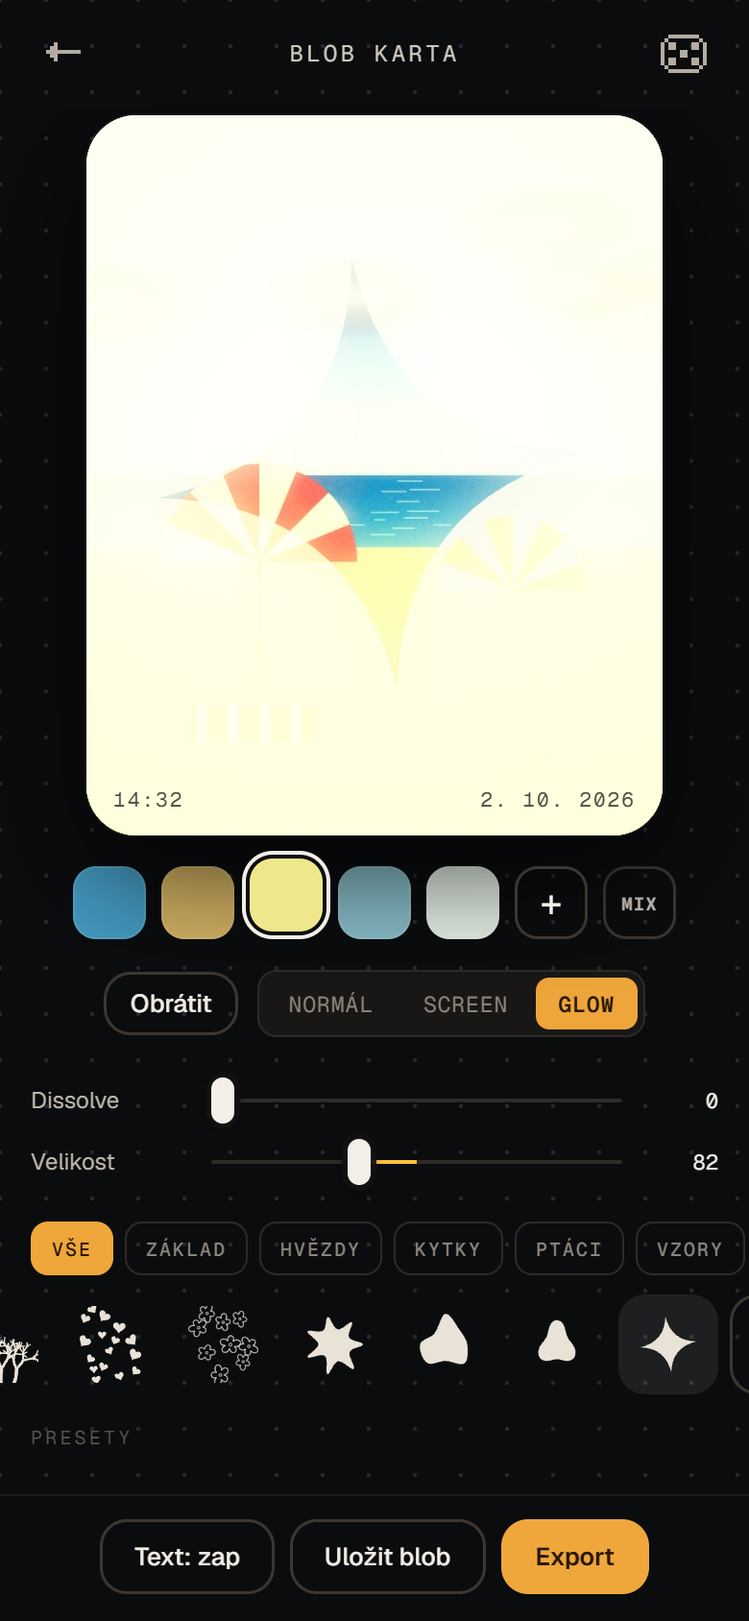
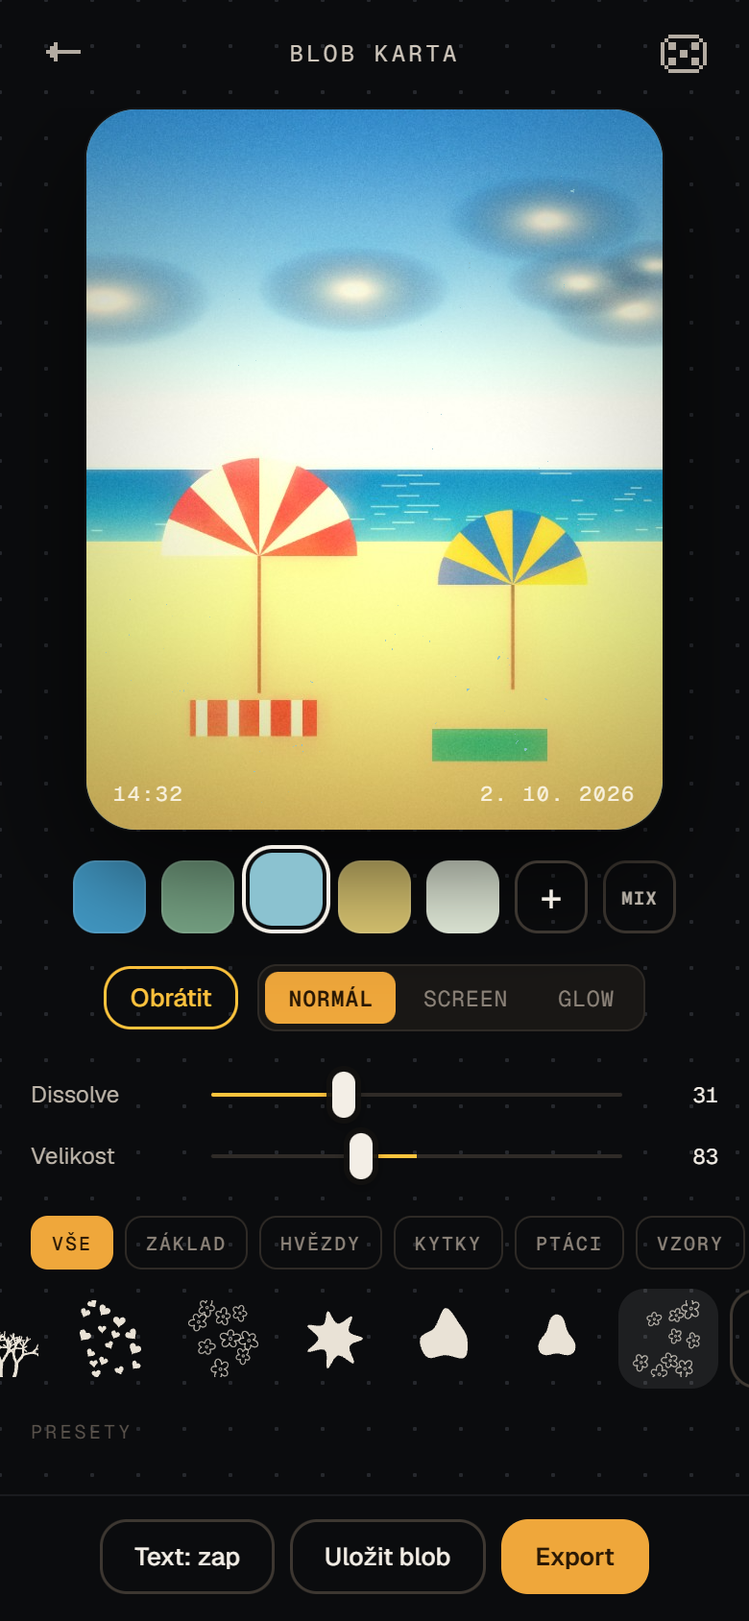
Náhled 0.15: nastavení filmu, reset sekce, IR přepracované (+IRC, IRR, IRG), jemnější zrno, zoom na celé obrazovce

diff --git a/docs/preview/index.html b/docs/preview/index.html
@@ -411,7 +411,7 @@ a{color:var(--amber)}
 
 /* pravítko (posuvník ve stylu Prequel) */
 .ruler{position:relative;height:84px;padding-top:2px}
-.ruler .rv{text-align:center;font-family:var(--f-dot);font-weight:900;font-size:23px;height:26px;line-height:26px;color:var(--fg);font-variant-numeric:tabular-nums;white-space:nowrap}
+.ruler .rv{cursor:pointer;-webkit-user-select:none;user-select:none;touch-action:manipulation;text-align:center;font-family:var(--f-dot);font-weight:900;font-size:23px;height:26px;line-height:26px;color:var(--fg);font-variant-numeric:tabular-nums;white-space:nowrap}
 .ruler .rl{text-align:center;font-family:var(--f-mono);font-size:9.5px;letter-spacing:.16em;color:var(--dim);text-transform:uppercase;height:13px;white-space:nowrap}
 .ruler .tr{position:relative;height:40px;margin-top:4px;overflow:hidden;touch-action:none;cursor:ew-resize;
   -webkit-mask:linear-gradient(90deg,transparent,#000 16%,#000 84%,transparent);mask:linear-gradient(90deg,transparent,#000 16%,#000 84%,transparent)}
@@ -740,7 +740,7 @@ body.pcapp .pcwrap{position:fixed;inset:0;width:auto;height:auto;transform:none!
 <body>
 <div class="shell" id="shell">
   <aside class="nav">
-    <div class="brand">QAMERA<small>Náhled 0.14</small></div>
+    <div class="brand">QAMERA<small>Náhled 0.15</small></div>
     <div>
       <div class="navlabel">Zobrazení</div>
       <div class="seg" id="viewSeg"><button class="on" data-v="m">MOBIL 390×844</button><button data-v="pc">PC 1440×900</button></div>
@@ -868,7 +868,7 @@ body.pcapp .pcwrap{position:fixed;inset:0;width:auto;height:auto;transform:none!
             <button class="ib" data-back aria-label="Zpět" data-ic="back"></button>
             <div style="display:flex"><button class="ib" id="undoBtn" data-ic="undo" aria-label="Zpět o krok"></button><button class="ib" id="redoBtn" data-ic="redo" aria-label="Znovu"></button></div>
             <button class="advsw" id="advSw">ADVANCED <span class="sw" id="advKnob"></span></button>
-            <div style="display:flex"><button class="ib" id="resetBtn" data-ic="reset" aria-label="Vrátit úpravy na výchozí film"></button><button class="ib" id="expBtn" data-ic="share" aria-label="Exportovat"></button></div>
+            <div style="display:flex"><button class="ib" id="resetBtn" data-ic="reset" aria-label="Vrátit tuhle sekci na původní"></button><button class="ib" id="expBtn" data-ic="share" aria-label="Exportovat"></button></div>
           </div>
           <div class="ephoto" id="ePhoto">
             <div class="frame" id="eFrame"><div class="ecanvas" id="eWrap"><canvas id="eGlow"></canvas><canvas id="edCanvas"></canvas><canvas id="eDate"></canvas><button class="ib fsbtn" id="fsBtn" data-ic="expand" aria-label="Celá obrazovka"></button></div></div>
@@ -939,7 +939,7 @@ body.pcapp .pcwrap{position:fixed;inset:0;width:auto;height:auto;transform:none!
         <section class="scr pt" id="s-about" hidden>
           <div class="top"><button class="ib" data-back aria-label="Zpět" data-ic="back"></button><span class="title">O appce</span><span style="width:40px"></span></div>
           <div class="about">
-            <div class="hero"><div class="lens"><svg class="eyes" id="aboutEyes" viewBox="14 24 92 72"></svg></div><h2>QAMERA</h2><div class="ver">NÁHLED 0.14</div></div>
+            <div class="hero"><div class="lens"><svg class="eyes" id="aboutEyes" viewBox="14 24 92 72"></svg></div><h2>QAMERA</h2><div class="ver">NÁHLED 0.15</div></div>
             <div class="card"><h3>Poděkování</h3>
               <p><a href="https://github.com/thetechgeekko/Spektrafilm-android" target="_blank" rel="noopener">Spektrafilm for Android</a> by <b>Akshay Sharma</b></p>
               <p>Film modeling powered by <a href="https://github.com/andreavolpato/spektrafilm" target="_blank" rel="noopener">spektrafilm</a> (Andrea Volpato)</p>
@@ -1157,11 +1157,15 @@ const FILMS = [
   { code: 'ORTHO', sub: 'ortho 25', chem: 'ortochromatický · ISO 25', desc: 'Starý ortochromatický film necitlivý na červenou: rty a červená ztmavnou, nebe vybledne. Vzhled fotek z počátku 20. století.', iso: 25, g: 'fine', bw: [.04, .58, .38], tone: [1.02, 1, .95], toe: .02, sh: [0, 0, 0], hi: [1, 1, 1], con: 1.18, sat: 0, fade: .02, hal: .05, c: ['#1a1712', '#e6dcc6', '#4a6b8a'] },
 ];
 FILMS.push({ code: 'IR', sub: 'infrared color', chem: 'barevný infračervený', desc: 'Infračervený vzhled jako z přestavěného foťáku: zeleň a tráva do růžovobílé, nebe tyrkysové, beton do pudrové.', iso: 400, g: 'classic', sh: [0, 0, 0], hi: [1, 1, 1], con: 1.02, sat: 1, fade: .02, hal: .3, gl: .28, ir: 1, c: ['#5fb7b4', '#f2a7bc', '#fbe9ee'] });
+FILMS.push({ code: 'IRC', sub: 'infra red', chem: 'barevný infračervený', desc: 'Sytá infra jako Aerochrome: listí a tráva rudé, nebe tyrkysové, oblaka bílá.', iso: 400, g: 'fine', sh: [0, 0, 0], hi: [1, 1, 1], con: 1.06, sat: 1.1, fade: 0, hal: .25, gl: .2, ir: 3, c: ['#d81b2a', '#4fb3b0', '#f4f1ee'] });
+FILMS.push({ code: 'IRR', sub: 'infra mono red', chem: 'ČB infračervený + barva', desc: 'Černobílá infra, kde svítí jen listí a tráva – rudě.', iso: 400, g: 'mono', sh: [0, 0, 0], hi: [1, 1, 1], con: 1.08, sat: 1, fade: 0, hal: .15, gl: .2, ir: 4, c: ['#141414', '#e8e8e8', '#d81b2a'] });
+FILMS.push({ code: 'IRG', sub: 'infra mono gold', chem: 'ČB infračervený + barva', desc: 'Černobílá infra, kde svítí jen listí a tráva – zlatě.', iso: 400, g: 'mono', sh: [0, 0, 0], hi: [1, 1, 1], con: 1.08, sat: 1, fade: 0, hal: .15, gl: .2, ir: 4, irh: 1, c: ['#141414', '#e8e8e8', '#f2b52e'] });
 FILMS.push({ code: 'IR400', sub: 'infrared 400', chem: 'ČB infračervený', desc: 'Černobílý infračervený film ve stylu Rollei Infrared 400 s červeným filtrem: zeleň září bíle (Woodův efekt), nebe a voda ztmavnou skoro do černa, ostrý kontrast.', iso: 400, g: 'mono', sh: [0, 0, 0], hi: [1, 1, 1], con: 1.1, sat: 0, fade: .0, hal: .12, gl: .2, ir: 2, c: ['#1a1a1a', '#e8e8e8', '#b3122e'] });
 /* soft glow (difúze, „Pro-Mist“) podle filmu */
 const GLOW = { P160: .2, P400: .18, P800: .22, E100: .08, G200: .18, UM400: .12, KC64: .05, EC100: .06, 'V3-50D': .15, 'V3-250D': .2, 'V3-500T': .3, C200: .12, '400H': .28, SX400: .1, PV100: .05, VEL: .05, IR: .25 };
 FILMS.forEach(f => f.gl = GLOW[f.code] ?? .12);
 const FILM = Object.fromEntries(FILMS.map(f => [f.code, f]));
+FILM.NONE = { code: 'NONE', sub: 'bez filmu', chem: '', desc: 'Původní fotka bez filmu.', iso: 400, g: 'classic', sh: [0, 0, 0], hi: [1, 1, 1], con: 1, sat: 1, fade: 0, hal: 1, gl: 0, chr: 0, c: ['#333', '#999', '#eee'] };
 let FAV = store.get('fav', []);
 let HIDDEN = store.get('hiddenFilms', []);
 const filmsOrdered = () => { const vis = FILMS.filter(f => !HIDDEN.includes(f.code) || f.code === S.film || (S.P && f.code === S.P.film)); return [...vis.filter(f => FAV.includes(f.code)), ...vis.filter(f => !FAV.includes(f.code))]; };
@@ -1171,8 +1175,8 @@ const GRAINS = {
   fine:    { l: 'Fine', d: 'jemný, diapozitivy a ISO 100', f: 1.45, sh: .9, ch: .22, cl: .15, a: .8, mot: 0 },
   classic: { l: 'Classic', d: 'klasický negativ ISO 400', f: 1.0, sh: 1.0, ch: .42, cl: .35, a: 1, mot: 0 },
   cine:    { l: 'Cine', d: 'měkký kino negativ', f: 1.2, sh: .72, ch: .3, cl: .2, a: .85, mot: 0 },
-  push:    { l: 'Push', d: 'hrubý, film tlačený na 3200', f: .66, sh: 1.45, ch: .55, cl: .55, a: 1.35, mot: 0 },
-  mono:    { l: 'Mono', d: 'stříbrný černobílý grain', f: .95, sh: 1.6, ch: 0, cl: .3, a: 1.1, mot: 0 },
+  push:    { l: 'Push', d: 'hrubý, film tlačený na 3200', f: 1.0, sh: 1.08, ch: .16, cl: .35, a: .95, mot: 0 },
+  mono:    { l: 'Mono', d: 'stříbrný černobílý grain', f: 1.75, sh: 1.15, ch: 0, cl: .2, a: .9, mot: 0 },
   expired: { l: 'Expired', d: 'prošlý film, skvrnitý', f: .8, sh: 1.1, ch: .85, cl: .9, a: 1.15, mot: 1 },
 };
 const gtypeOf = P => P.gtype || FILM[P.film]?.g || 'classic';
@@ -1348,7 +1352,7 @@ uniform sampler2D uTex, uCurve;
 uniform vec2 uCover, uOff, uRes; uniform float uZoom, uRot, uTime, uBypass, uStatic;
 uniform float uExp,uTemp,uTint,uCon,uSat,uStr,uHal,uBloom,uVig,uFade,uSharp;
 uniform float uGrain,uGFreq,uGSharp,uGChroma,uGClump,uGMot;
-uniform vec3 uSh,uHi; uniform float uFCon,uFSat,uFFade, uChar; uniform vec3 uBW, uBTone; uniform float uBToe;
+uniform vec3 uSh,uHi; uniform float uFCon,uFSat,uFFade, uChar, uFSoft, uIRHue; uniform vec3 uBW, uBTone; uniform float uBToe;
 uniform vec3 uHsl[8]; uniform vec3 uGSh,uGMid,uGHi;
 uniform vec3 uTrMs,uTrSs,uTrMr,uTrSr; uniform float uTr;
 uniform float uSeed, uGlow, uIR, uStyle, uCells, uLevels, uPalN, uZebra;
@@ -1369,6 +1373,11 @@ vec3 rgb2hsv(vec3 c){ vec4 K=vec4(0.,-1./3.,2./3.,-1.); vec4 p=mix(vec4(c.bg,K.w
 vec3 hsv2rgb(vec3 c){ vec3 p=abs(fract(c.xxx+vec3(1.,2./3.,1./3.))*6.-3.); return c.z*mix(vec3(1.),clamp(p-1.,0.,1.),c.y); }
 float luma(vec3 c){ return dot(c, vec3(.2126,.7152,.0722)); }
 vec2 qToUv(vec2 q){ float cs = cos(uRot), sn = sin(uRot); vec2 ts0 = vec2(textureSize(uTex,0)); float sar = ts0.x/ts0.y; vec2 v0 = q * uCover / uZoom; v0.x *= sar; v0 = mat2(cs,-sn,sn,cs) * v0; v0.x /= sar; return v0 + .5 + uOff; } // otočení bez zkosení
+/* zjednodušený vzhled pro rozmazané vrstvy (glow): stejné základní úpravy a film jako fotka, ať záře má barvy upravené fotky */
+vec3 lookOf(vec3 s){ vec3 l = pow(max(s, 0.), vec3(2.2)) * exp2(uExp) * vec3(1.+uTemp*.22, 1.+uTint*.1, 1.-uTemp*.22); vec3 c = pow(l/(1.+l*.06*uStr), vec3(1./2.2));
+  c = (c-.5)*(1.+uCon*.55)+.5; c = mix(vec3(luma(c)), c, 1.+uSat); vec3 f = c;
+  if (uLut > .5) f = texture(uLut3, clamp(f,0.,1.)*(32./33.) + .5/33.).rgb; if (uBW.r + uBW.g + uBW.b > .01) f = vec3(dot(clamp(f,0.,1.), uBW)) * uBTone;
+  return clamp(mix(c, f, uStr), 0., 1.); }
 void main(){
   float ar0 = uRes.x/uRes.y; vec2 cells = vec2(uCells*ar0, uCells);
   vec2 bUv = uStyle > .5 ? (floor(vUv*cells)+.5)/cells : vUv; // dither / pixel art: vzorkuje se po buňkách
@@ -1403,17 +1412,22 @@ void main(){
   c = (c-.5)*(1.+uCon*.55)+.5;
   float l = luma(c); c = mix(vec3(l), c, 1.+uSat);
   vec3 f = c; float fl = clamp(luma(f),0.,1.);
-  if (uIR > .5) { vec3 x = clamp(f,0.,1.); float lx = luma(x), sat0 = max(x.r, max(x.g, x.b)) - min(x.r, min(x.g, x.b));
-    float veg = smoothstep(0., .12, x.g - max(x.r, x.b) * .92) * smoothstep(.03, .14, sat0); // zeleň (v IR silně odráží)
-    float sky = smoothstep(.02, .16, x.b - max(x.r, x.g) * .95) * smoothstep(.2, .55, lx);  // modré nebe (v IR tmavé)
-    float irl = clamp(lx * .8 + veg * (.55 + lx * .5), 0., 1.);
-    if (uIR < 1.5) { // barevná IR (filtr 590–720 nm + prohození kanálů): zeleň do růžovobílé, nebe do tyrkysu, zbytek pudrově růžový
-      vec3 base = mix(vec3(irl), irl * vec3(1.1, .84, .89), .8);
-      vec3 fol = mix(vec3(.93, .48, .6), vec3(1., .82, .87), smoothstep(.35, .95, irl));
-      vec3 sk = mix(vec3(.08, .45, .47), vec3(.35, .72, .72), lx);
-      f = mix(base, fol, veg); f = mix(f, sk, sky);
-    } else { // ČB IR (Rollei Infrared 400 + R72): Woodův efekt, černé nebe, tvrdý kontrast
-      float g = clamp(lx * .55 + veg * .85 + lx * veg * .3 - sky * .55 - smoothstep(.02, .2, x.b - x.r) * (1. - sky) * .12, 0., 1.); f = vec3(smoothstep(.04, .96, g)); }
+  if (uIR > .5) { /* infra: odhad odrazivosti v IR (zeleň silně, nebe a voda slabě, oblaka a bílá vysoko) – plynulé váhy, žádné ostré masky
+       barevné varianty = CIR jako Aerochrome: zobrazená červená = IR, zelená = viditelná červená, modrá = viditelná zelená */
+    vec3 x = clamp(f, 0., 1.); float lx = luma(x), sat0 = max(x.r, max(x.g, x.b)) - min(x.r, min(x.g, x.b));
+    float veg = smoothstep(-.02, .14, x.g - .5 * (x.r + x.b)) * smoothstep(.0, .16, sat0) + smoothstep(.0, .2, .5 * (x.r + x.g) - x.b) * smoothstep(.06, .3, sat0) * .45 * (1. - smoothstep(.0, .2, x.r - x.g)); veg = clamp(veg, 0., 1.);
+    float blu = smoothstep(-.02, .2, x.b - .5 * (x.r + x.g)) * (1. - smoothstep(.72, .97, lx));          // modrá (nebe, voda) – v IR tmavá, oblaka ne
+    float ir = clamp(lx * .78 + veg * (.42 + .5 * lx) - blu * .32, 0., 1.);
+    /* barví se jen to, co infra opravdu mění: listí a tráva (vysoká odrazivost) → červená, modrá → tyrkys, oblaka bílá, zbytek jen ztlumený */
+    vec3 base = mix(vec3(lx), x, .45) * vec3(1.03, .97, .98);
+    vec3 fol = mix(vec3(.78, .05, .12), vec3(1., .42, .46), smoothstep(.45, 1., ir)) * (.55 + .5 * ir);
+    vec3 sk = vec3(.22, .64, .66) * (.55 + .55 * lx);
+    vec3 cir = mix(base, fol, veg); cir = mix(cir, sk, blu * (1. - veg));
+    if (uIR < 1.5) f = mix(cir, vec3(1., .88, .92), .32) * .9 + .07;                                         // IR: pastelová růžová
+    else if (uIR < 2.5) { float g = clamp(ir * 1.08 - blu * .2, 0., 1.); f = vec3(g * g * (3. - 2. * g) * .35 + g * .65); } // IR400: ČB, Woodův efekt
+    else if (uIR < 3.5) f = cir;                                                                             // IRC: sytá červená infra
+    else { float g = clamp(ir * 1.05 - blu * .15, 0., 1.); vec3 hue = uIRHue > .5 ? vec3(1., .72, .18) : vec3(1., .16, .2);  // IRR / IRG: ČB + listí v jedné barvě
+      f = mix(vec3(g), hue * (.35 + g * .85), veg * .92); }
     fl = clamp(luma(f),0.,1.); }
   if (uBW.r + uBW.g + uBW.b > .01) { // černobílý film: spektrální citlivost emulze (kanálový mix), charakteristická křivka, tón papíru
     float y = clamp(dot(clamp(f, 0., 1.), uBW), 0., 1.); y = (y - .5) * uFCon + .5; y = mix(y, y * y * (3. - 2. * y), clamp(uFCon - .9, 0., .6));
@@ -1429,8 +1443,9 @@ void main(){
   f += uSh*(1.-fl)*(1.-fl)*1.6;
   f *= mix(vec3(1.), uHi, smoothstep(.15,1.,fl));
   f = uFFade + f*(1.-uFFade*1.4); }
+  if (uFSoft > 0.) f = mix(f, (f - .5) * .66 + .53, uFSoft); // měkkost: zjemní křivku filmu (méně kontrastu, světlejší stíny)
   c = mix(c, f, uStr);
-  if (uGlow > 0.) { vec3 dg = textureLod(uTex, uv, 4.6).rgb; c = mix(c, 1.-(1.-c)*(1.-dg*.85), uGlow*.6); c = mix(c, c*.92+.05, uGlow*.18); } // soft glow / difúze
+  if (uGlow > 0.) { vec3 dg = lookOf(textureLod(uTex, uv, 4.6).rgb); c = mix(c, 1.-(1.-c)*(1.-dg*.85), uGlow*.6); c = mix(c, c*.92+.05, uGlow*.18); } // soft glow / difúze
   c = clamp(c,0.,1.);
   c = vec3(texture(uCurve,vec2(c.r,.5)).r, texture(uCurve,vec2(c.g,.5)).g, texture(uCurve,vec2(c.b,.5)).b);
   vec3 h = rgb2hsv(c); float hc[8] = float[8](0.,.083,.166,.333,.5,.625,.75,.875);
@@ -1460,7 +1475,7 @@ void main(){
     vec3 n = mix(vec3(nm), nc, uGChroma) * clump;
     n = sign(n)*pow(abs(n)*1.25, vec3(1./uGSharp));
     float w = (1.-smoothstep(.6,1.,L)*.75)*(.5+.5*smoothstep(0.,.22,L));
-    c += n*uGrain*.13*w + (hash(gl_FragCoord.xy + jit*3.1) - .5)*uGrain*.018; // jemný nepravidelný šum navrch
+    c += n*uGrain*.13*w + (hash(gl_FragCoord.xy + jit*3.1) - .5)*uGrain*.006; // jen velmi jemný šum navrch (víc vypadalo jako špatná komprese)
     if (uGMot > 0.) { vec2 mp = vUv*vec2(ar,1.)*2.3; c += vec3(vnoise(mp+3.), vnoise(mp+17.), vnoise(mp+29.))*.045*uGMot*uGrain; }
   }
   if (uBW.r + uBW.g + uBW.b > .01 && uStr > .001) c = mix(c, vec3(dot(c, vec3(.299, .587, .114))) * uBTone, clamp(uStr, 0., 1.)); // ČB film: halation i zrno bez barvy
@@ -1532,18 +1547,18 @@ class Engine {
     gl.uniform1f(u.uZoom, o.zoom || 1); gl.uniform1f(u.uRot, o.rot || 0); gl.uniform1f(u.uTime, o.time || 0); gl.uniform1f(u.uBypass, o.bypass ? 1 : 0); gl.uniform1f(u.uStatic, o.time == null ? 1 : 0);
     const isoK = Math.sqrt((o.iso || f.iso) / 400);
     gl.uniform1f(u.uExp, P.exp); gl.uniform1f(u.uTemp, P.temp); gl.uniform1f(u.uTint, P.tint); gl.uniform1f(u.uCon, P.con); gl.uniform1f(u.uSat, P.sat);
-    const k = clamp(P.str, 0, 1); // síla filmu řídí celý filmový vzhled – při 0 % je fotka původní (zůstanou jen Úpravy)
-    gl.uniform1f(u.uStr, P.str); gl.uniform1f(u.uHal, P.hal * f.hal * k); gl.uniform1f(u.uBloom, P.bloom * k);
+    const k = P.film === 'NONE' ? 0 : clamp(P.str, 0, 1); // síla filmu řídí celý filmový vzhled – při 0 % je fotka původní (zůstanou jen Úpravy)
+    gl.uniform1f(u.uStr, k); gl.uniform1f(u.uFSoft, (P.fsoft || 0) * k); gl.uniform1f(u.uHal, P.hal * f.hal * k); gl.uniform1f(u.uBloom, P.bloom * k);
     gl.uniform1f(u.uGrain, P.grain * G.a * (.6 + .4 * isoK) * k); gl.uniform1f(u.uGFreq, 560 / P.gsize * G.f / (.72 + .38 * isoK));
     gl.uniform1f(u.uSeed, o.seed != null ? o.seed : 7); gl.uniform1f(u.uGSharp, G.sh); gl.uniform1f(u.uGChroma, G.ch); gl.uniform1f(u.uGClump, G.cl); gl.uniform1f(u.uGMot, G.mot);
     gl.uniform1f(u.uVig, P.vig * k); gl.uniform1f(u.uFade, P.fade); gl.uniform1f(u.uSharp, P.sharp);
-    gl.uniform1f(u.uChar, f.chr ?? .6); gl.uniform3fv(u.uBW, f.bw || [0, 0, 0]); gl.uniform3fv(u.uBTone, f.tone || [1, 1, 1]); gl.uniform1f(u.uBToe, f.toe || 0);
+    gl.uniform1f(u.uChar, P.chr ?? f.chr ?? .6); gl.uniform3fv(u.uBW, f.bw || [0, 0, 0]); gl.uniform3fv(u.uBTone, f.tone || [1, 1, 1]); gl.uniform1f(u.uBToe, f.toe || 0);
     gl.uniform3fv(u.uSh, f.sh); gl.uniform3fv(u.uHi, f.hi); gl.uniform1f(u.uFCon, f.con); gl.uniform1f(u.uFSat, f.sat); gl.uniform1f(u.uFFade, f.fade);
     gl.uniform3fv(u.uHsl, P.hsl.flat());
     const g = P.grade; gl.uniform3fv(u.uGSh, hue2rgb(g.sh[0], g.sh[1])); gl.uniform3fv(u.uGMid, hue2rgb(g.mid[0], g.mid[1])); gl.uniform3fv(u.uGHi, hue2rgb(g.hi[0], g.hi[1]));
     let T = o.transfer;
     if (!T && f.scan && this.srcEl) { if (!this.st) this.st = stats(this.srcEl); T = { k: Math.min(1, P.str) * (f.scan.k ?? 1), ms: this.st.m, ss: this.st.s, mr: f.scan.m, sr: f.scan.s }; }
-    gl.uniform1f(u.uGlow, (P.glow ?? f.gl ?? .12) * k); gl.uniform1f(u.uIR, f.ir || 0);
+    gl.uniform1f(u.uGlow, (P.glow ?? f.gl ?? .12) * k); gl.uniform1f(u.uIR, f.ir || 0); gl.uniform1f(u.uIRHue, f.irh || 0);
     const st = (!o.bypass && P.style) || {}, sty = st.type === 'dither' ? 1 : st.type === 'pixel' ? 2 : 0, pal = (st.pal || []).slice(0, 6), pf = new Float32Array(18);
     pal.forEach((c, i) => { const v = rgbOf(c); pf.set([v[0] / 255, v[1] / 255, v[2] / 255], i * 3); });
     gl.uniform1f(u.uStyle, sty); gl.uniform1f(u.uCells, st.cells || 200); gl.uniform1f(u.uLevels, st.levels || 2); gl.uniform3fv(u.uPal, pf); gl.uniform1f(u.uPalN, pal.length || 2); gl.uniform1f(u.uZebra, o.zebra ? 1 : 0);
@@ -2204,7 +2219,7 @@ async function dbLoad() {
 const phAr = ph => (ph.P && ph.P.crop && ph.P.crop.ar) || ph.src.width / ph.src.height;
 function rethumb(ph) { if (ph.P.lidar && ph.depth) { const cr0 = ph.P.crop || DEF().crop, w0 = 300, h0 = Math.round(300 / phAr(ph)), o0 = copyCanvas(utilRender(srcOf(ph, ph.P), ph.P, w0, h0, { depth: ph.depth, zoom: cr0.s, offX: cr0.x, offY: cr0.y, rot: cr0.rot * Math.PI / 180 }));
     ph.thumb = lidarRender(o0, ph.depth, w0, h0, Object.assign({}, ph.P.lidar, { hud: false })).toDataURL('image/jpeg', .85); ph.film = ph.P.film; return; }
-  const cr = ph.P.crop || DEF().crop, o = utilRender(srcOf(ph, ph.P), ph.P, 300, Math.round(300 / phAr(ph)), { depth: ph.depth, zoom: cr.s, offX: cr.x, offY: cr.y, rot: cr.rot * Math.PI / 180 }); ph.thumb = o.toDataURL('image/jpeg', .85); ph.film = ph.kind === 'arch' ? 'ARCH' : ph.P.film; }
+  const cr = ph.P.crop || DEF().crop, o = utilRender(srcOf(ph, ph.P), ph.P, 300, Math.round(300 / phAr(ph)), { depth: ph.depth, zoom: cr.s, offX: cr.x, offY: cr.y, rot: cr.rot * Math.PI / 180 }); ph.thumb = o.toDataURL('image/jpeg', .85); ph.film = ph.kind === 'arch' ? 'ARCH' : ph.P.film === 'NONE' ? 'ORIG' : ph.P.film; }
 function seedPhotos() {
   const list = [['plaz', 720, 900, 'G200', ['léto', 'moře', 'modrá', 'červená'], 14, 32], ['les', 720, 960, '400H', ['les', 'zelená', 'ráno'], 7, 12], ['zapad', 900, 720, 'P400', ['západ', 'moře', 'oranžová'], 19, 48],
     ['hory', 720, 960, 'VEL', ['hory', 'růžová', 'fialová'], 6, 21], ['kvet', 720, 720, 'E100', ['květina', 'růžová', 'zelená'], 11, 5], ['mesto', 720, 960, 'V3-500T', ['noc', 'ulice', 'praha'], 22, 17],
@@ -2377,7 +2392,7 @@ function showArch(photos, title, film, opt = {}) {
   if (S.screen === 'gallery') renderGallery(); viewImage(c, ph);
 }
 /* prohlížeč obrázku: pinch / kolečko = zoom, tažení = posun, dvojťuk = 1× / 2,5× */
-function viewImage(src, ph) {
+function viewImage(src, ph, alt) {
   const el = document.createElement('div'); el.className = 'zoomv'; el.innerHTML = `<canvas></canvas><button class="zx" aria-label="Zavřít">${iconSVG('x')}</button>${ph ? '<button class="zsh">Export</button>' : ''}`;
   $('#phone').appendChild(el); const cv = $('canvas', el); cv.width = src.width; cv.height = src.height; cv.getContext('2d').drawImage(src, 0, 0);
   const W = el.clientWidth, H = el.clientHeight, k0 = Math.min(W / src.width, H / src.height); let z = { s: k0, x: (W - src.width * k0) / 2, y: (H - src.height * k0) / 2 };
@@ -2387,6 +2402,10 @@ function viewImage(src, ph) {
   const pts = new Map(); let base = null, lastTap = 0, sw = 0;
   const close = () => { el.style.transition = 'opacity .25s'; el.style.opacity = 0; setTimeout(() => el.remove(), 260); };
   const rel = e => { const b = el.getBoundingClientRect(), sc = b.width / el.offsetWidth; return [(e.clientX - b.left) / sc, (e.clientY - b.top) / sc]; };
+  let holdT = 0, held = false; const showAlt = on => { if (!alt) return; cv.getContext('2d').drawImage(on ? alt : src, 0, 0, cv.width, cv.height); };
+  el.addEventListener('pointerdown', e => { if (alt && !pts.size) { held = false; holdT = setTimeout(() => { held = true; showAlt(true); buzz(6); }, 260); } }, true);
+  el.addEventListener('pointermove', e => { if (holdT && pts.size && (pts.size > 1 || Math.hypot(...rel(e).map((v, i) => v - base.c[i])) > 8)) { clearTimeout(holdT); holdT = 0; } }, true);
+  el.addEventListener('pointerup', () => { clearTimeout(holdT); holdT = 0; if (held) { held = false; showAlt(false); } }, true);
   el.addEventListener('pointerdown', e => { if (e.target.closest('button')) return; el.setPointerCapture(e.pointerId); pts.set(e.pointerId, rel(e)); const a = [...pts.values()];
     base = { ...z, d: a[1] ? Math.hypot(a[0][0] - a[1][0], a[0][1] - a[1][1]) : 0, c: a[1] ? [(a[0][0] + a[1][0]) / 2, (a[0][1] + a[1][1]) / 2] : a[0] }; });
   el.addEventListener('pointermove', e => { if (!pts.has(e.pointerId)) return; pts.set(e.pointerId, rel(e)); const a = [...pts.values()];
@@ -2408,7 +2427,7 @@ let edE, edRaf = 0, before = false;
 const PANEL_H = 186;
 function cleanP(P) { delete P.fish; delete P.layers; if (P.frame && !FRAMES[P.frame]) P.frame = 'glow'; P.date = null; P.tr = 0; if (P.depth && !['bokeh', 'fog', 'hal', 'map'].includes(P.depth.mode)) P.depth.mode = 'bokeh'; return P; } // zrušené efekty
 function openEditor(ph, fromImg) {
-  stopPar(); S.cur = ph; S.fxOpen = null; cleanP(ph.P); S.P = JSON.parse(JSON.stringify(ph.P)); S.cur._last = JSON.parse(JSON.stringify(ph.P)); S.hist = []; S.fut = [];
+  stopPar(); S.cur = ph; S.fxOpen = null; S.filmOpen = false; cleanP(ph.P); S.P = JSON.parse(JSON.stringify(ph.P)); S.cur._last = JSON.parse(JSON.stringify(ph.P)); S.hist = []; S.fut = [];
   edE.setSource(srcOf(ph, S.P));
   go('editor');
   setTab(S.tab, true);
@@ -2663,6 +2682,14 @@ function commit() { if (S.cur) S.cur.dirty = true; S.hist.push(JSON.stringify(S.
 function undo() { if (!S.hist.length) return toast('Není co vracet'); S.fut.push(JSON.stringify(S.P)); S.P = JSON.parse(S.hist.pop()); syncCur(); }
 function redo() { if (!S.fut.length) return; S.hist.push(JSON.stringify(S.P)); S.P = JSON.parse(S.fut.pop()); syncCur(); }
 function syncCur() { S.cur.P = JSON.parse(JSON.stringify(S.P)); S.cur._last = JSON.parse(JSON.stringify(S.P)); rethumb(S.cur); setTab(S.tab, true); layoutEditor(); renderEd(true); if (S.view === 'pc') buildPcRight(); }
+function resetSection() { const P = S.P, D = DEF(); let what;
+  if (S.adv) { P.curve = D.curve; P.hsl = D.hsl; P.grade = D.grade; what = 'Advanced'; }
+  else if (S.tab === 'film') { P.film = 'NONE'; P.str = 1; ['chr', 'fsoft'].forEach(k => delete P[k]); S.filmOpen = false; what = 'Film'; }
+  else if (S.tab === 'adj') { ADJ.forEach(a => { if (a.film) delete P[a.k]; else P[a.k] = D[a.k]; }); P.gtype = null; what = 'Úpravy'; }
+  else if (S.tab === 'crop') { P.crop = D.crop; what = 'Ořez'; }
+  else { P.dx = null; P.style = null; P.frame = null; P.depth = null; P.lidar = null; S.fxOpen = null; what = 'Efekty'; }
+  commit(); dxChanged(); layoutEditor(); setTab(S.tab, true); renderEd(true); if (S.view === 'pc') buildPcRight(); buzz(8);
+  toast(`${what}: vráceno na původní`, { label: 'Zpět', fn: undo }); }
 function resetAll() { const film = S.P.film, crop = S.P.crop, dx = S.P.dx; S.P = DEF(); S.P.film = film; S.P.crop = crop; S.P.dx = dx; commit(); S.cur._last = JSON.parse(JSON.stringify(S.P)); setTab(S.tab, true); renderEd(true); if (S.view === 'pc') buildPcRight(); toast(`Úpravy vrácené na výchozí ${film}`); buzz(8); }
 
 /* pravítko (Prequel): tiky s čísly, žlutě vyplněný rozsah od výchozí hodnoty, setrvačnost a cvaknutí */
@@ -2685,6 +2712,7 @@ function makeRuler(el, { min, max, step, value, label, fmt, onInput, onEnd, def 
   tr.addEventListener('pointermove', e => { if (!tr.hasPointerCapture(e.pointerId)) return; const now = performance.now(); vel = (e.clientX - lx) / Math.max(1, now - lt) * 16; lx = e.clientX; lt = now; setV(v0 - (e.clientX - sx) / PX * step, true); });
   tr.addEventListener('pointerup', () => { const tgt = clamp(Math.round((v - vel * 4 / PX * step - min) / step) * step + min, min, max); sp = spring(v, tgt, x => setV(x), { k: 200, c: 24, onDone: onEnd }); });
   tr.addEventListener('dblclick', () => { sp && sp.stop(); sp = spring(v, def, x => setV(x), { onDone: onEnd }); });
+  let rvT = 0; rv.addEventListener('pointerup', () => { const n = performance.now(); if (n - rvT < 340) { rvT = 0; sp && sp.stop(); buzz(6); sp = spring(v, def, x => setV(x), { k: 220, c: 24, onDone: onEnd }); } else rvT = n; }); // dvojťuk na číslo = vynulovat
   tr.addEventListener('wheel', e => { e.preventDefault(); sp && sp.stop(); setV(v + Math.sign(e.deltaY + e.deltaX) * step * (e.shiftKey ? 5 : 1), true); clearTimeout(tr._w); tr._w = setTimeout(onEnd, 300); }, { passive: false });
   requestAnimationFrame(draw);
   return { set(nv) { v = nv; draw(); } };
@@ -2712,11 +2740,12 @@ function setTab(t, quiet) {
   S.tab = t; $$('#eTabs button').forEach(b => b.classList.toggle('on', b.dataset.t === t));
   const p = $('#ePanel'); $('#cropLayer').hidden = t !== 'crop' || S.adv;
   if (S.adv) { renderAdv(); sizePanel(quiet); return; }
-  if (t === 'film') {
+  if (t === 'film' && S.filmOpen && FILM[S.P.film] && S.P.film !== 'NONE') { renderFilmPanel(p);
+  } else if (t === 'film') {
     p.innerHTML = `<div class="ruler" id="strR"></div><div class="strip" id="fStrip">${filmsOrdered().map(f => `<button class="fthumb ${f.code === S.P.film ? 'on' : ''} ${FAV.includes(f.code) ? 'fav' : ''}" data-c="${f.code}"><canvas width="128" height="160"></canvas><span>${f.code}</span></button>`).join('')}</div>`;
-    makeRuler($('#strR'), { min: 0, max: 1, step: .01, value: S.P.str, label: 'Síla filmu · ' + S.P.film, fmt: v => Math.round(v * 100), def: 1, onInput: v => { S.P.str = v; renderEd(); }, onEnd: commit });
+    makeRuler($('#strR'), { min: 0, max: 1, step: .01, value: S.P.str, label: S.P.film === 'NONE' ? 'Bez filmu' : 'Síla filmu · ' + S.P.film, fmt: v => Math.round(v * 100), def: 1, onInput: v => { S.P.str = v; renderEd(); }, onEnd: commit });
     drawFilmThumbs(); hscroll($('#fStrip')); $$('.fthumb').forEach(b => { const f = FILM[b.dataset.c]; if (f && f.scan) longPress(b, () => filmActs(f.code)); });
-    $$('.fthumb').forEach(b => b.onclick = () => { S.P.film = b.dataset.c; $$('.fthumb').forEach(x => x.classList.toggle('on', x === b)); $('#strR .rl').textContent = 'Síla filmu · ' + S.P.film; renderEd(); commit(); buzz(4);
+    $$('.fthumb').forEach(b => b.onclick = () => { if (S.P.film === b.dataset.c) { S.filmOpen = true; setTab('film', true); buzz(6); return; } S.P.film = b.dataset.c; $$('.fthumb').forEach(x => x.classList.toggle('on', x === b)); $('#strR .rl').textContent = 'Síla filmu · ' + S.P.film; renderEd(); commit(); buzz(4);
       spring(.9, 1, v => b.querySelector('canvas').style.transform = `scale(${v})`, { k: 300, c: 14 }); });
     requestAnimationFrame(() => { const on = $('.fthumb.on'), s = $('#fStrip'); if (on && s) s.scrollLeft = on.offsetLeft - s.clientWidth / 2 + on.offsetWidth / 2; });
   } else if (t === 'adj') {
@@ -2789,7 +2818,7 @@ function renderFxPanel(p) {
       ${dith ? `<label class="srow"><span>Úrovně</span><input type="range" id="fxLev" min="2" max="4" value="${st.levels}" data-def="2"><output>${st.levels}</output></label>` : ''}`; }
   else if (k === 'lidar' && !S.cur.depth) body = depthWait();
   else if (k === 'lidar') { const L = S.P.lidar;
-    body = `<div class="fxrow"><div class="seg" id="fxLst">${[['foto', 'FOTO'], ['scan', 'SKEN']].map(([m, l]) => `<button data-m="${m}" class="${L.st === m ? 'on' : ''}">${l}</button>`).join('')}</div><button class="sq wide" id="fxLvid">Video</button></div>
+    body = `<div class="fxrow"><div class="seg" id="fxLst">${[['foto', 'FOTO'], ['scan', 'SKEN']].map(([m, l]) => `<button data-m="${m}" class="${L.st === m ? 'on' : ''}">${l}</button>`).join('')}</div><button class="sq wide ${L.hud !== false ? 'on' : ''}" id="fxLhud">Text</button><button class="sq wide" id="fxLvid">Video</button></div>
       <label class="srow"><span>Otočení</span><input type="range" id="fxLyaw" min="-60" max="60" value="${Math.round(L.yaw)}" data-def="18"><output>${Math.round(L.yaw)}°</output></label>
       <label class="srow"><span>Náklon</span><input type="range" id="fxLpit" min="-30" max="30" value="${Math.round(L.pitch)}" data-def="6"><output>${Math.round(L.pitch)}°</output></label>`; }
   else if (k === 'depth') { const d = S.P.depth, ready = !!S.cur.depth;
@@ -2828,7 +2857,7 @@ function renderFxPanel(p) {
   if (k === 'lidar' && S.P.lidar && S.cur.depth) { const L = S.P.lidar;
     $$('#fxLst button').forEach(b => b.onclick = () => { L.st = b.dataset.m; renderEd(true); commit(); setTab('fx', true); });
     const lr = (id, f, u = '') => { const i = $(id); paintRange(i); i.oninput = () => { f(+i.value); i.nextElementSibling.textContent = i.value + u; paintRange(i); dateOverlay(); }; i.onchange = commit; };
-    lr('#fxLyaw', v => L.yaw = v, '°'); lr('#fxLpit', v => L.pitch = v, '°'); $('#fxLvid').onclick = lidarVideo; }
+    lr('#fxLyaw', v => L.yaw = v, '°'); lr('#fxLpit', v => L.pitch = v, '°'); $('#fxLvid').onclick = lidarVideo; $('#fxLhud').onclick = () => { L.hud = L.hud === false; dateOverlay(); commit(); setTab('fx', true); }; }
   if (k === 'date') { const d = S.P.date;
     $$('#fxDf2 button').forEach(b => b.onclick = () => { d.f = +b.dataset.f; $$('#fxDf2 button').forEach(x => x.classList.toggle('on', x === b)); renderEd(true); commit(); buzz(4); });
     $$('.fxp [data-c]').forEach(b => b.onclick = () => { d.c = +b.dataset.c; $$('.fxp [data-c]').forEach(x => x.classList.toggle('on', x === b)); renderEd(true); commit(); buzz(4); }); }
@@ -2885,6 +2914,17 @@ const IOS = /iPhone|iPad|iPod/.test(navigator.userAgent) || (navigator.platform 
 function heavyRender() { if (S.depthMs != null && S.depthMs < 45) { renderEd(true); return; } const w = $('#eWrap'); let l = $('.eload', w);
   if (!l) { l = document.createElement('div'); l.className = 'eload'; l.innerHTML = '<i></i><span>Počítám</span>'; w.appendChild(l); }
   l.classList.add('on'); requestAnimationFrame(() => requestAnimationFrame(() => { renderEd(true); setTimeout(() => l.classList.remove('on'), 120); })); }
+/* nastavení filmu: co z filmového vzhledu chceš míň / víc (jen pro tuhle fotku) */
+function renderFilmPanel(p) { const P = S.P, f = FILM[P.film], gl0 = f.gl ?? .12;
+  const rows = [['str', 'Síla', 0, 100, Math.round(P.str * 100), 100], ['chr', 'Charakter', 0, 150, Math.round((P.chr ?? f.chr ?? .6) * 100), Math.round((f.chr ?? .6) * 100)], ['fsoft', 'Měkkost', 0, 100, Math.round((P.fsoft || 0) * 100), 0],
+    ['hal', 'Halation', 0, 300, Math.round(P.hal * 100), 100], ['bloom', 'Bloom', 0, 150, Math.round(P.bloom * 100), 15], ['glow', 'Glow', 0, 150, Math.round((P.glow ?? gl0) * 100), Math.round(gl0 * 100)], ['grain', 'Grain', 0, 150, Math.round(P.grain * 100), 50], ['gsize', 'Velikost zrna', 50, 300, Math.round(P.gsize * 100), 100]];
+  p.innerHTML = `<div class="fxp"><div class="fxh"><button class="ib" id="fpBack" aria-label="Zpět na filmy">${iconSVG('back')}</button><b>FILM · ${f.code}</b><button class="off" id="fpDef">Výchozí</button></div>
+    ${rows.map(([k, l, a, b, v, d]) => `<label class="srow"><span>${l}</span><input type="range" data-fk="${k}" min="${a}" max="${b}" value="${v}" data-def="${d}"><output>${v}</output></label>`).join('')}</div>`;
+  $('#fpBack').onclick = () => { S.filmOpen = false; setTab('film', true); };
+  $('#fpDef').onclick = () => { ['chr', 'fsoft', 'glow'].forEach(k => delete S.P[k]); Object.assign(S.P, { str: 1, hal: 1, bloom: .15, grain: .5, gsize: 1 }); renderEd(true); commit(); setTab('film', true); buzz(6); };
+  $$('#ePanel [data-fk]').forEach(i => { paintRange(i); i.oninput = () => { const k = i.dataset.fk; S.P[k] = +i.value / 100; i.nextElementSibling.textContent = i.value; paintRange(i); renderEd(); }; i.onchange = commit;
+    i.ondblclick = () => { i.value = i.dataset.def; i.oninput(); commit(); }; });
+}
 function photoPal(n) { const P = JSON.parse(JSON.stringify(S.P)); P.style = null; P.grain = 0; utilRender(srcOf(S.cur, S.P), P, 60, 75, {}); return kmeans(util.e.pixels(), n).map(c => '#' + rgbOf(c).map(v => v.toString(16).padStart(2, '0')).join('')); }
 const DPALS = { amber: ['#0B0C0E', '#F5C542'], lime: ['#050505', '#D4FF3A'], paper: ['#1b1a18', '#F2EFE8'], ir: ['#1a0d2e', '#ff4f8b'] };
 function styleActs() {
@@ -2962,18 +3002,10 @@ function cropGestures() {
   el.addEventListener('wheel', e => { if (S.tab !== 'crop' || S.adv) return; e.preventDefault(); const c = S.P.crop; c.s = clamp(c.s * (1 - e.deltaY * .0015), 1, 5); fitCrop(); renderEd(); clearTimeout(el._w); el._w = setTimeout(commit, 300); }, { passive: false });
 }
 /* fotka přes celou obrazovku */
-function openFs() {
-  const v = $('#fsView'), cv = $('#fsCanvas'), phone = $('#phone'), dpr = Math.min(2, devicePixelRatio || 1);
-  const ar = S.P.crop.ar || S.cur.src.width / S.cur.src.height, W = phone.clientWidth, H = phone.clientHeight;
-  let w = W, h = W / ar; if (h > H) { h = H; w = H * ar; }
-  const G = S.P.frame ? frameGeom(S.P, ar, W, H) : null; if (G) { w = G.cw; h = G.ch; }
-  const paint = byp => { const fr = G && !byp, pw = fr ? G.r.w : w, ph = fr ? G.r.h : h, o0 = copyCanvas(utilRender(srcOf(S.cur, S.P), S.P, Math.round(pw * dpr), Math.round(ph * dpr), edOpts({ bypass: byp })));
-    if (S.P.date && !byp) drawDate(o0.getContext('2d'), o0.width, o0.height, S.cur.date, S.P.date); const o = fr ? framed(o0, S.P, S.cur) : o0; cv.width = o.width; cv.height = o.height; cv.getContext('2d').drawImage(o, 0, 0); };
-  cv.style.width = w + 'px'; cv.style.height = h + 'px'; paint(false); $('#fsHint').textContent = '';
-  v.hidden = false; spring(0, 1, t => { v.style.opacity = Math.min(1, t * 1.3); cv.style.transform = `scale(${.92 + .08 * t})`; }, { k: 220, c: 24 });
-  let hold = 0, held = false;
-  v.onpointerdown = () => { held = false; hold = setTimeout(() => { held = true; paint(true); buzz(8); }, 160); };
-  v.onpointerup = () => { clearTimeout(hold); if (held) { paint(false); return; } spring(1, 0, t => { v.style.opacity = t; cv.style.transform = `scale(${.94 + .06 * t})`; }, { k: 260, c: 28, onDone: () => v.hidden = true }); };
+function openFs() { // celá obrazovka = prohlížeč se zoomem (dva prsty, dvojťuk), podržení = před úpravou, přejetí do strany = zavřít
+  const ar = S.P.crop.ar || S.cur.src.width / S.cur.src.height, W = 2000, H = Math.round(W / ar);
+  const render = byp => { const o0 = copyCanvas(utilRender(srcOf(S.cur, S.P), S.P, W, H, edOpts({ bypass: byp }))); if (S.P.lidar && S.cur.depth && !byp) return lidarRender(o0, S.cur.depth, W, H, S.P.lidar); return !byp && S.P.frame ? framed(o0, S.P, S.cur) : o0; };
+  viewImage(render(false), null, render(true));
 }
 
 /* Advanced */
@@ -3933,7 +3965,7 @@ function boot2(h) {
   // editor
   $$('#eTabs button').forEach(b => b.onclick = () => { if (S.adv) { S.adv = false; $('#advKnob').classList.remove('on'); } setTab(b.dataset.t); syncNav(); });
   $('#advSw').onclick = () => { toggleAdv(); syncNav(); };
-  $('#undoBtn').onclick = undo; $('#redoBtn').onclick = redo; $('#resetBtn').onclick = resetAll;
+  $('#undoBtn').onclick = undo; $('#redoBtn').onclick = redo; $('#resetBtn').onclick = resetSection;
   $('#expBtn').onclick = exportPhoto; lidarDrag($('#eWrap'), () => dateOverlay());
   $('#edCanvas').addEventListener('click', e => { const d = S.P.depth, D = S.cur && S.cur.depth; if (S.fxOpen !== 'depth' || !d || !D || d.mode === 'map' || d.mode === 'hal') return;
     const r = e.currentTarget.getBoundingClientRect(), cr = S.P.crop, u = clamp(.5 + ((e.clientX - r.left) / r.width - .5) / cr.s + cr.x, 0, 1), v = clamp(.5 + ((e.clientY - r.top) / r.height - .5) / cr.s - cr.y, 0, 1);

diff --git a/sw.js b/sw.js
@@ -1,5 +1,5 @@
 /* Qamera service worker – appka funguje i offline. Po větší změně zvýšit VERSION, ať se telefonům stáhne nová verze. */
-const VERSION = 'qamera-0.14.0';
+const VERSION = 'qamera-0.15.0';
 const SHELL = ['./', './docs/preview/', './docs/preview/index.html', './manifest.webmanifest', './icons/icon.svg', './icons/icon-192.png', './icons/apple-touch-icon.png', './luts/films.json'];
 
 self.addEventListener('install', e => {
